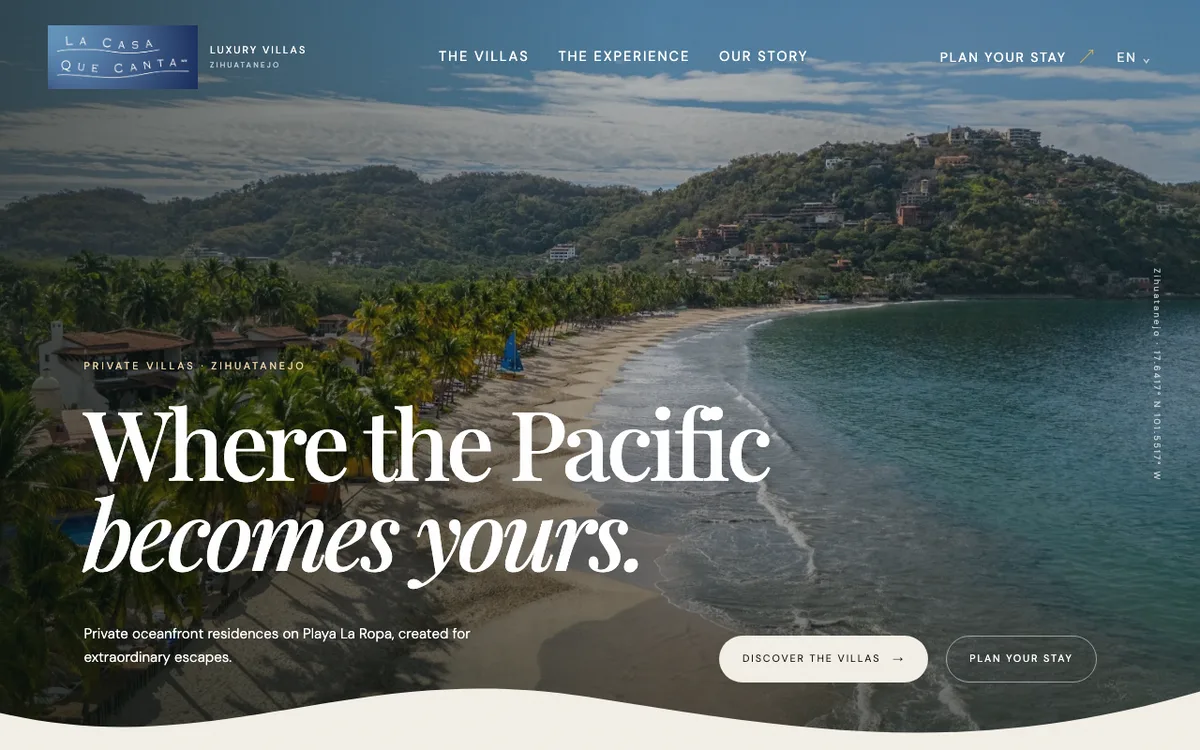
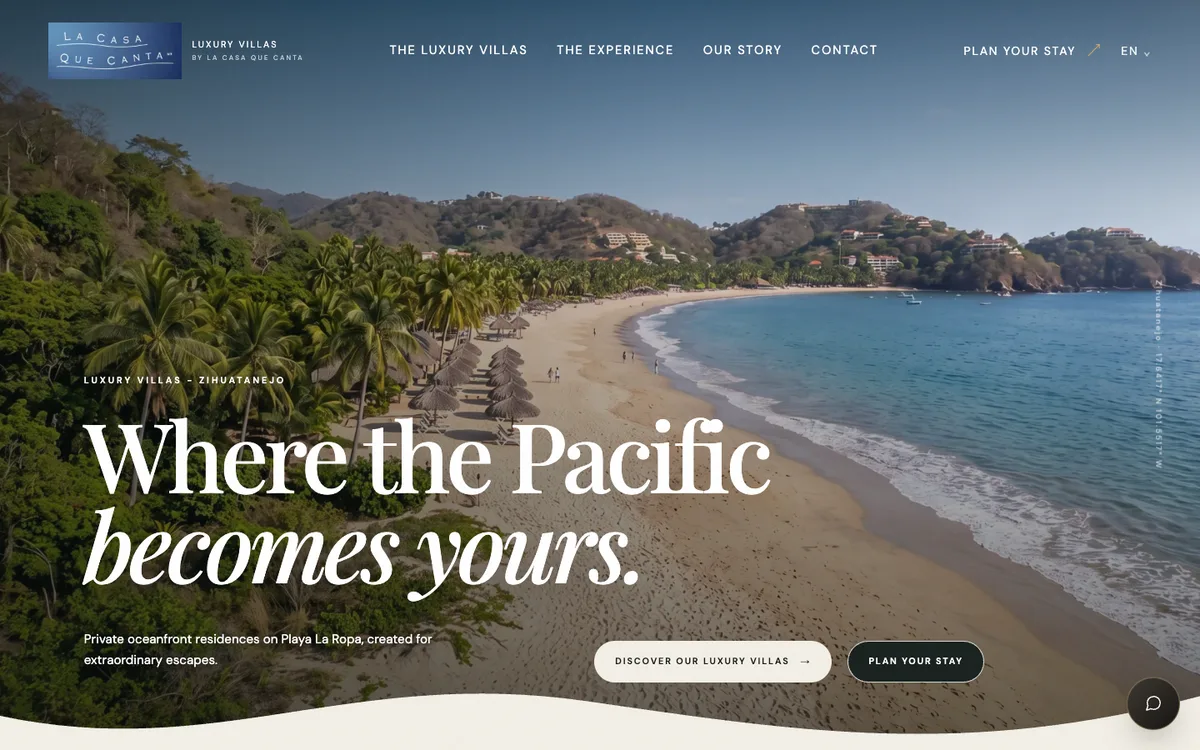
Add Artimex, Luxury Villas and Kepler to portfolio

diff --git a/data/o7-portfolio.js b/data/o7-portfolio.js
@@ -1,5 +1,26 @@
 export const o7PortfolioProjects = [
   {
+    id: "artimex-bakery",
+    title: "Artimex Bakery",
+    url: "https://www.artimexbakery.com/",
+    category: "corporate",
+    previewImage: "/assets/images/portfolio/artimex-bakery.webp",
+  },
+  {
+    id: "luxury-villas-la-casa-que-canta",
+    title: "Luxury Villas by La Casa Que Canta",
+    url: "https://www.luxuryvillasbylacasaquecanta.com/",
+    category: "hospitality",
+    previewImage: "/assets/images/portfolio/luxury-villas-la-casa-que-canta.webp",
+  },
+  {
+    id: "business-suites-kepler",
+    title: "Business Suites Kepler",
+    url: "https://www.businesssuiteskepler.com/",
+    category: "hospitality",
+    previewImage: "/assets/images/portfolio/business-suites-kepler.webp",
+  },
+  {
     id: "la-casa-que-canta",
     title: "La Casa Que Canta",
     url: "https://www.lacasaquecanta.com/",
